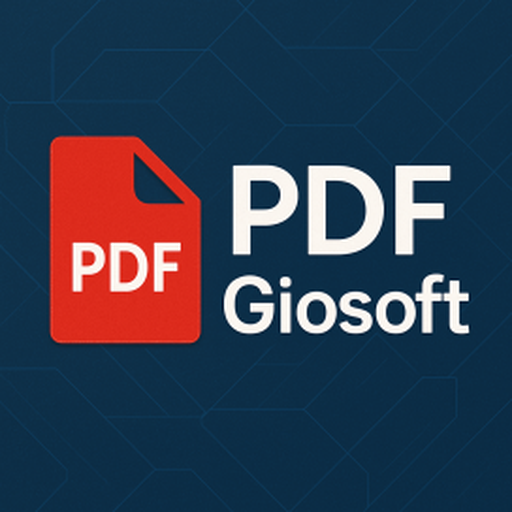
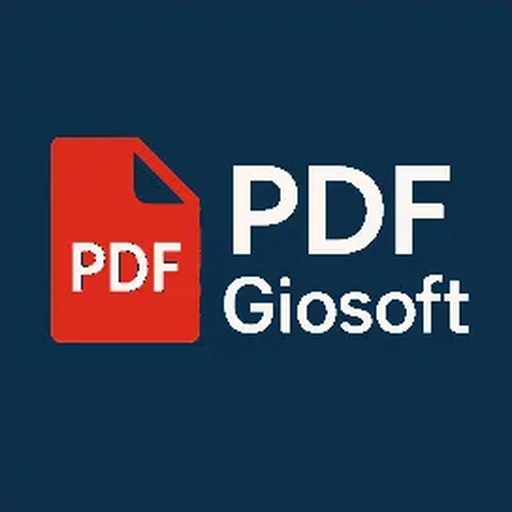
Quitar las lineas decorativas del fondo del icono, dejar navy solido
El foreground traia horneadas unas lineas hexagonales en su propio fondo
navy, visibles sobre todo en la pantalla de bienvenida. No hay fuente
vectorial en el repo, asi que se separo por color: rojo y blanco son la
marca, todo lo demas se aplana al mismo navy solido de
@color/ic_launcher_background. De paso, los .webp pesan mucho menos: el navy
liso comprime mejor que la textura (62 KB -> 4.4 KB en xxxhdpi).

Se regeneraron tambien los graficos de Play Store (play/generar-graficos.py
lee de este mismo origen).

Claude-Session: https://claude.ai/code/session_01EJVh7mnUAfRhKUCy3HcYoD

diff --git a/play/limpiar_icono.py b/play/limpiar_icono.py
@@ -1,0 +1,56 @@
+# -*- coding: utf-8 -*-
+"""
+Quita las lineas hexagonales decorativas de `ic_launcher_foreground.webp` en
+las cinco densidades, dejando un fondo navy solido detras de la marca.
+
+El archivo original traia, horneado en la propia imagen, un fondo navy con un
+patron de lineas finas tipo circuito. Se nota sobre todo en la pantalla de
+bienvenida, donde ese cuadro se ve completo (en el icono del lanzador queda
+recortado por la mascara adaptativa y se nota menos).
+
+No hay ninguna fuente vectorial de este icono en el repositorio (se
+comprobo), asi que la unica via es separar por color: el rojo del archivo PDF
+y el blanco del texto son la marca; todo lo demas dentro del cuadro (navy
+liso o con lineas) se reemplaza por el MISMO navy solido que usa el resto de
+la app (`@color/ic_launcher_background`, #0D2F49), para que quede parejo con
+el fondo que pone el propio sistema de icono adaptativo. Fuera del cuadro se
+respeta la transparencia original: es el margen de seguridad que exige el
+formato de icono adaptativo, no parte del problema.
+
+    py -3 play/limpiar_icono.py
+"""
+
+from pathlib import Path
+from PIL import Image
+
+RAIZ = Path(__file__).resolve().parent.parent
+NAVY = (0x0D, 0x2F, 0x49, 255)
+
+# Umbrales generosos: capturan el rojo/blanco de la marca, incluidos los
+# bordes suavizados que se mezclan hacia esos colores. Cualquier otra cosa
+# (navy liso o las lineas, que son un navy mas claro) cae al fondo solido.
+def es_marca(r, g, b):
+    rojo = r > 140 and g < 130 and b < 130
+    blanco = r > 175 and g > 175 and b > 175
+    return rojo or blanco
+
+
+def limpiar(path: Path):
+    im = Image.open(path).convert("RGBA")
+    pixeles = im.load()
+    w, h = im.size
+    for y in range(h):
+        for x in range(w):
+            r, g, b, a = pixeles[x, y]
+            if a == 0:
+                continue  # fuera del cuadro: se deja transparente
+            if not es_marca(r, g, b):
+                pixeles[x, y] = NAVY
+    im.save(path)
+
+
+if __name__ == "__main__":
+    for densidad in ["mdpi", "hdpi", "xhdpi", "xxhdpi", "xxxhdpi"]:
+        f = RAIZ / f"app/src/main/res/mipmap-{densidad}/ic_launcher_foreground.webp"
+        limpiar(f)
+        print(f"limpiado: mipmap-{densidad}/ic_launcher_foreground.webp")
